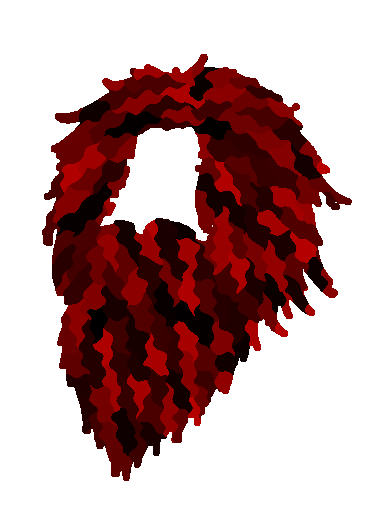
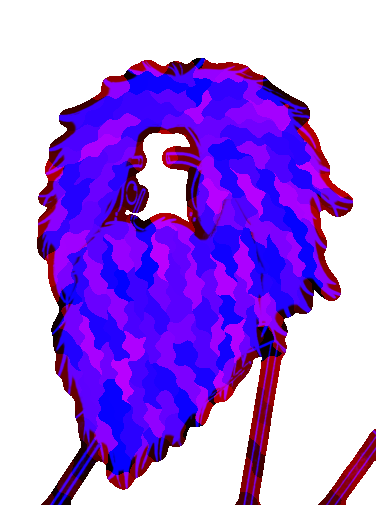
Hero-игра: целая борода и пряди у лица без разрывов (мягкая маска)

diff --git a/index.html b/index.html
@@ -70,10 +70,10 @@ function build(locksImg,mapImg){
   const md=mc.getImageData(0,0,MW,MH).data;
   labels=new Uint16Array(MW*MH);
   for(let i=0;i<labels.length;i++)if(md[i*4+3]>128)labels[i]=md[i*4]+md[i*4+1]*256;
-  const kx=MW/IW,ky=MH/IH,lab=(x,y)=>labels[Math.min(MH-1,y*ky|0)*MW+Math.min(MW-1,x*kx|0)];
+  const kx=MW/IW,ky=MH/IH,mi=(x,y)=>Math.min(MH-1,y*ky|0)*MW+Math.min(MW-1,x*kx|0),lab=(x,y)=>labels[mi(x,y)];
   const boxes=new Map();
   for(let y=0;y<IH;y++)for(let x=0;x<IW;x++){
-    const id=lab(x,y);if(!id||px[(y*IW+x)*4+3]<8)continue;
+    const id=lab(x,y);if(!id)continue;
     let b=boxes.get(id);if(!b)boxes.set(id,b={x0:x,y0:y,x1:x,y1:y,n:0});
     if(x<b.x0)b.x0=x;if(x>b.x1)b.x1=x;if(y>b.y1)b.y1=y;b.n++;
   }
@@ -84,7 +84,7 @@ function build(locksImg,mapImg){
       const gx=b.x0+x,gy=b.y0+y;if(lab(gx,gy)!==id)continue;
       const s=(gy*IW+gx)*4,t=(y*w+x)*4;
       ed.data[t+3]=255;
-      d.data[t]=px[s];d.data[t+1]=px[s+1];d.data[t+2]=px[s+2];d.data[t+3]=px[s+3];
+      d.data[t]=px[s];d.data[t+1]=px[s+1];d.data[t+2]=px[s+2];d.data[t+3]=Math.min(px[s+3],md[mi(gx,gy)*4+2]);
     }
     k.putImageData(d,0,0);ek.putImageData(ed,0,0);
     const p={id,x:b.x0,y:b.y0,w,h,c,e,area:b.n,cut:false};
